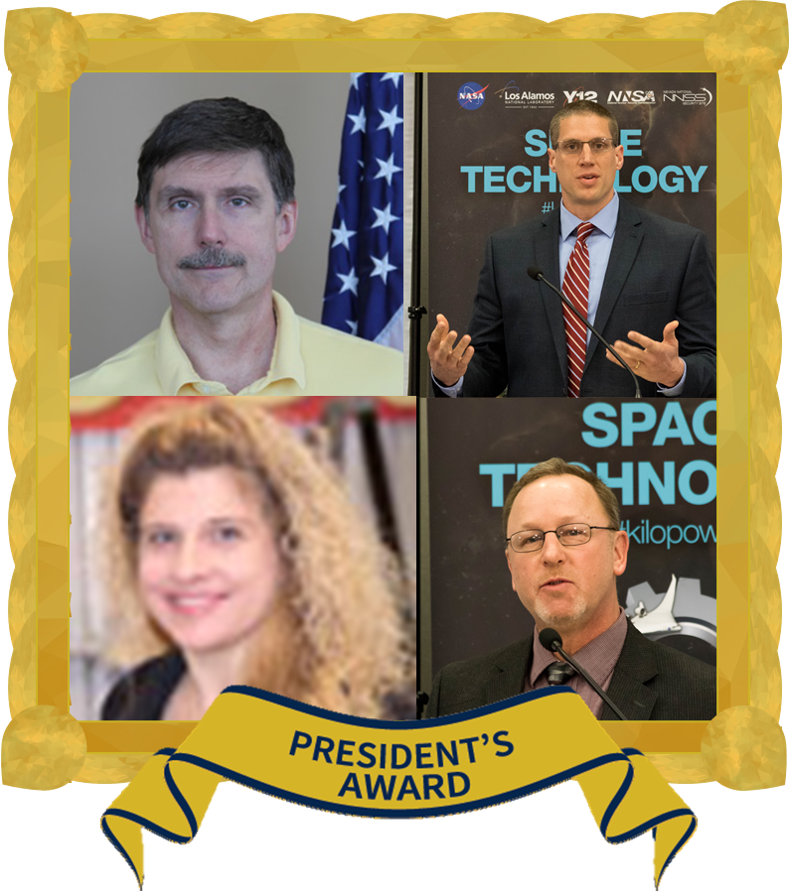
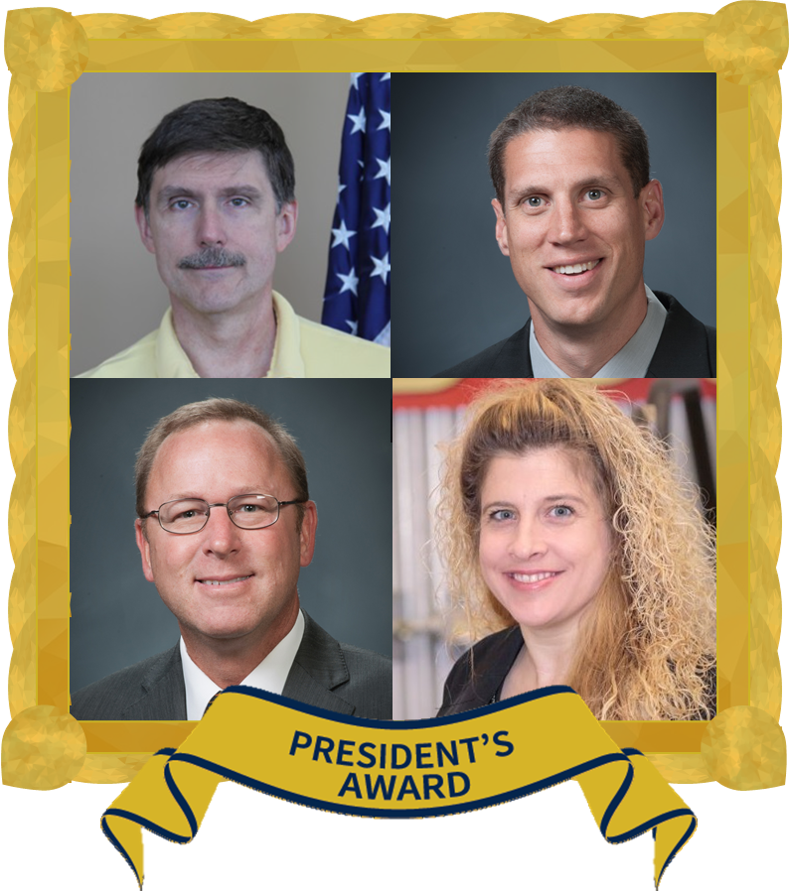
update KRUSTY team photos

diff --git a/_GoG-presidents-winners/Krusty.md b/_GoG-presidents-winners/Krusty.md
@@ -9,7 +9,7 @@ image-1:  "/img/GoG/winners/chambers-angela.jpg"
 image-1-name: Angela Chambers
 image-2: "/img/GoG/headshots/pulse-m.png"
 image-2-name: William Pulse
-image-3: "/img/GoG/headshots/gibson-m.JPG"
+image-3: "/img/GoG/headshots/gibson-m.jpeg"
 image-3-name: Marc Gibson
 image-4: "/img/GoG/headshots/mason-l.JPG"
 image-4-name: Lee Mason
